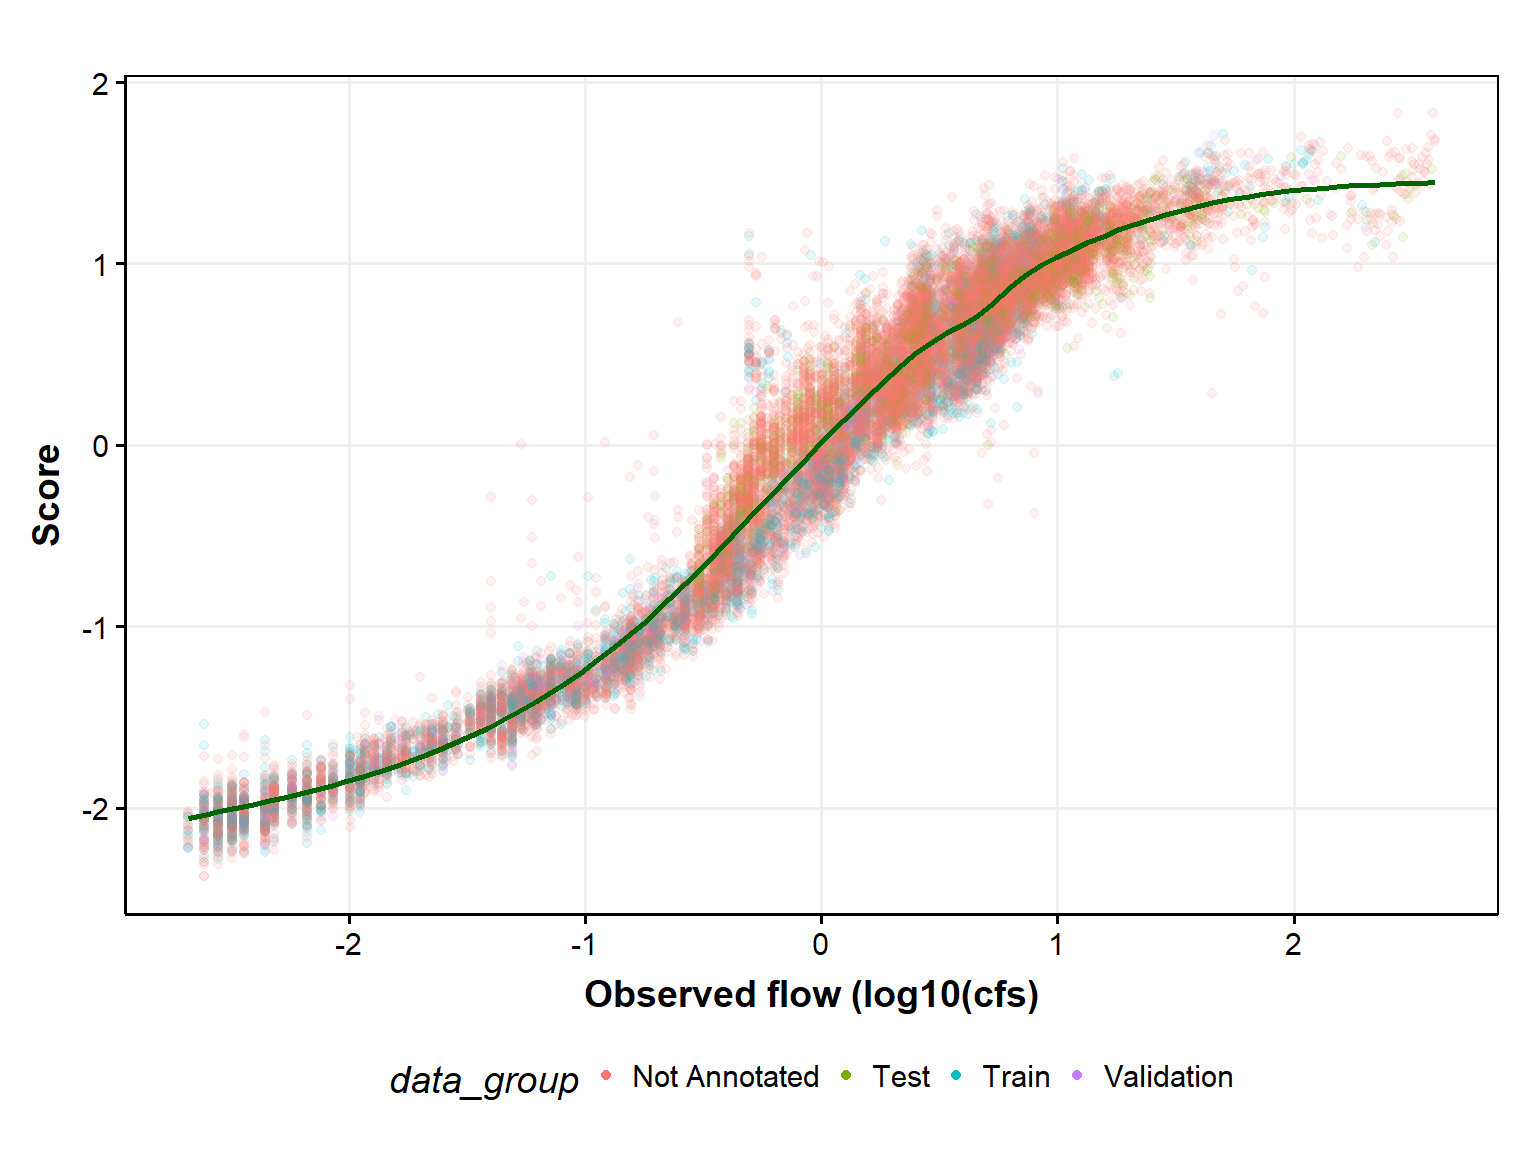
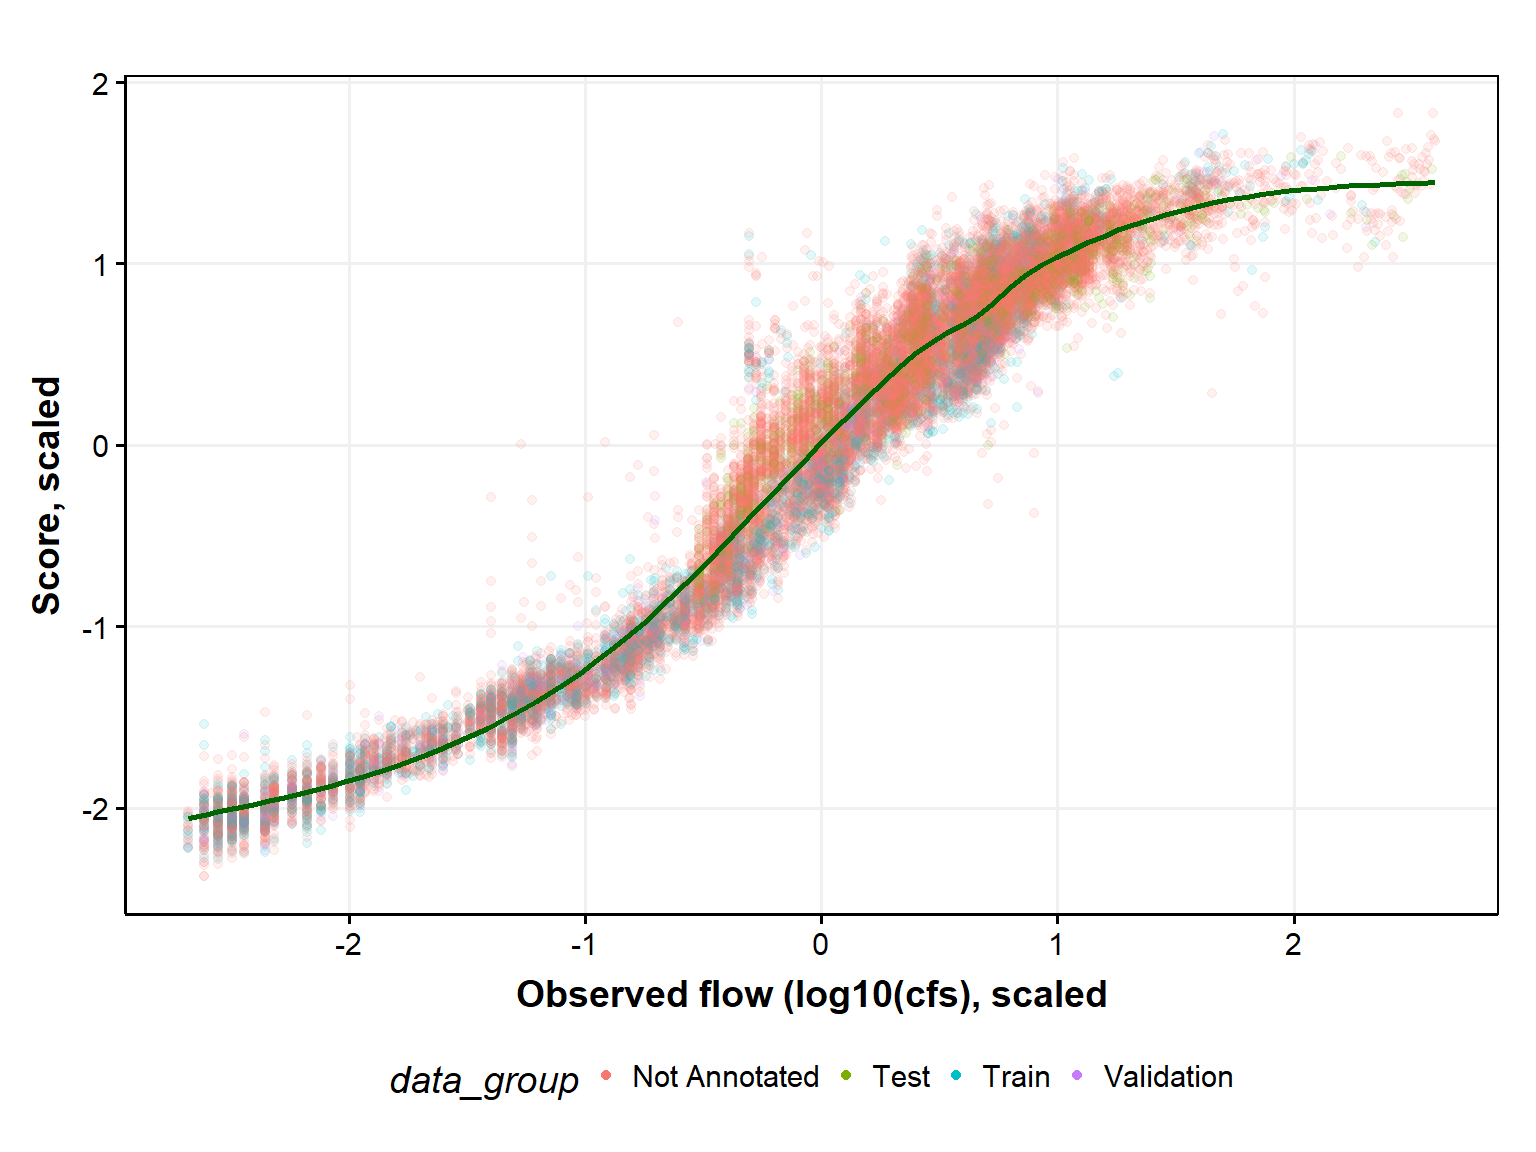
update

Changed region(s): [[0.3125, 0.8438, 0.7188, 0.875], [0.0, 0.3125, 0.0625, 0.5312]]

diff --git a/docs/realData.html b/docs/realData.html
@@ -265,7 +265,7 @@ pre > code.sourceCode > span > a:first-child::before { text-decoration: underlin
 <section id="plot-ecdfs" class="level2" data-number="2.3">
 <h2 data-number="2.3" class="anchored" data-anchor-id="plot-ecdfs"><span class="header-section-number">2.3</span> Plot ECDFs</h2>
 <p>Focus on West Brook 0</p>
-<div class="cell" data-hash="realData_cache/html/plotECDF_cc1652d133b08193dbc71b85a4f99fd3">
+<div class="cell" data-hash="realData_cache/html/plotECDF_b0d9eb7d8a9e964e3cdfa209df22b094">
 <details>
 <summary>Code</summary>
 <div class="sourceCode cell-code" id="cb5"><pre class="sourceCode r code-with-copy"><code class="sourceCode r"><span id="cb5-1"><a href="#cb5-1" aria-hidden="true" tabindex="-1"></a>dWB0 <span class="ot">&lt;-</span> d <span class="sc">|&gt;</span> </span>
@@ -292,7 +292,7 @@ pre > code.sourceCode > span > a:first-child::before { text-decoration: underlin
 <span id="cb6-3"><a href="#cb6-3" aria-hidden="true" tabindex="-1"></a>  <span class="fu">guides</span>(<span class="at">color =</span> <span class="fu">guide_legend</span>(<span class="at">override.aes =</span> <span class="fu">list</span>(<span class="at">alpha =</span> <span class="dv">1</span>))) <span class="sc">+</span></span>
 <span id="cb6-4"><a href="#cb6-4" aria-hidden="true" tabindex="-1"></a> <span class="co"># geom_smooth(method = "glm", method.args= list(family="binomial"), se = FALSE) +</span></span>
 <span id="cb6-5"><a href="#cb6-5" aria-hidden="true" tabindex="-1"></a>  <span class="fu">geom_smooth</span>(<span class="at">color =</span> <span class="st">"darkgreen"</span>, <span class="at">se =</span> <span class="cn">FALSE</span>) <span class="sc">+</span></span>
-<span id="cb6-6"><a href="#cb6-6" aria-hidden="true" tabindex="-1"></a>  <span class="fu">labs</span>(<span class="at">x =</span> <span class="st">"Observed flow (log10(cfs)"</span>, <span class="at">y =</span> <span class="st">"Score"</span>) <span class="sc">+</span></span>
+<span id="cb6-6"><a href="#cb6-6" aria-hidden="true" tabindex="-1"></a>  <span class="fu">labs</span>(<span class="at">x =</span> <span class="st">"Observed flow (log10(cfs), scaled"</span>, <span class="at">y =</span> <span class="st">"Score, scaled"</span>) <span class="sc">+</span></span>
 <span id="cb6-7"><a href="#cb6-7" aria-hidden="true" tabindex="-1"></a>  <span class="fu">theme_publication</span>()</span></code><button title="Copy to Clipboard" class="code-copy-button"><i class="bi"></i></button></pre></div>
 </details>
 <div class="cell-output-display">
@@ -305,7 +305,7 @@ pre > code.sourceCode > span > a:first-child::before { text-decoration: underlin
 <span id="cb7-3"><a href="#cb7-3" aria-hidden="true" tabindex="-1"></a>  <span class="fu">guides</span>(<span class="at">color =</span> <span class="fu">guide_legend</span>(<span class="at">override.aes =</span> <span class="fu">list</span>(<span class="at">alpha =</span> <span class="dv">1</span>))) <span class="sc">+</span></span>
 <span id="cb7-4"><a href="#cb7-4" aria-hidden="true" tabindex="-1"></a> <span class="co"># geom_smooth(method = "glm", method.args= list(family="binomial"), se = FALSE) +</span></span>
 <span id="cb7-5"><a href="#cb7-5" aria-hidden="true" tabindex="-1"></a>  <span class="fu">geom_smooth</span>(<span class="at">color =</span> <span class="st">"darkgreen"</span>, <span class="at">se =</span> <span class="cn">FALSE</span>) <span class="sc">+</span></span>
-<span id="cb7-6"><a href="#cb7-6" aria-hidden="true" tabindex="-1"></a>  <span class="fu">labs</span>(<span class="at">x =</span> <span class="st">"Observed flow (log10(cfs)"</span>, <span class="at">y =</span> <span class="st">"Score"</span>) <span class="sc">+</span></span>
+<span id="cb7-6"><a href="#cb7-6" aria-hidden="true" tabindex="-1"></a>  <span class="fu">labs</span>(<span class="at">x =</span> <span class="st">"Ranked flow"</span>, <span class="at">y =</span> <span class="st">"Ranked score"</span>) <span class="sc">+</span></span>
 <span id="cb7-7"><a href="#cb7-7" aria-hidden="true" tabindex="-1"></a>  <span class="fu">theme_publication</span>()</span></code><button title="Copy to Clipboard" class="code-copy-button"><i class="bi"></i></button></pre></div>
 </details>
 <div class="cell-output-display">
@@ -334,7 +334,7 @@ pre > code.sourceCode > span > a:first-child::before { text-decoration: underlin
 <span id="cb9-5"><a href="#cb9-5" aria-hidden="true" tabindex="-1"></a>  <span class="fu">guides</span>(<span class="at">color =</span> <span class="fu">guide_legend</span>(<span class="at">override.aes =</span> <span class="fu">list</span>(<span class="at">alpha =</span> <span class="dv">1</span>))) <span class="sc">+</span></span>
 <span id="cb9-6"><a href="#cb9-6" aria-hidden="true" tabindex="-1"></a> <span class="co"># geom_smooth(method = "glm", method.args= list(family="binomial"), se = FALSE) +</span></span>
 <span id="cb9-7"><a href="#cb9-7" aria-hidden="true" tabindex="-1"></a>  <span class="fu">geom_smooth</span>(<span class="at">color =</span> <span class="st">"darkgreen"</span>, <span class="at">se =</span> <span class="cn">FALSE</span>) <span class="sc">+</span></span>
-<span id="cb9-8"><a href="#cb9-8" aria-hidden="true" tabindex="-1"></a>  <span class="fu">labs</span>(<span class="at">x =</span> <span class="st">"Predicted percentile"</span>, <span class="at">y =</span> <span class="st">"Score"</span>) <span class="sc">+</span></span>
+<span id="cb9-8"><a href="#cb9-8" aria-hidden="true" tabindex="-1"></a>  <span class="fu">labs</span>(<span class="at">x =</span> <span class="st">"Ranked score"</span>, <span class="at">y =</span> <span class="st">"Score"</span>) <span class="sc">+</span></span>
 <span id="cb9-9"><a href="#cb9-9" aria-hidden="true" tabindex="-1"></a>  <span class="fu">theme_publication</span>() </span></code><button title="Copy to Clipboard" class="code-copy-button"><i class="bi"></i></button></pre></div>
 </details>
 <div class="cell-output-display">
@@ -888,7 +888,7 @@ window.document.addEventListener("DOMContentLoaded", function (event) {
 <span id="cb14-91"><a href="#cb14-91" aria-hidden="true" tabindex="-1"></a>  <span class="fu">guides</span>(<span class="at">color =</span> <span class="fu">guide_legend</span>(<span class="at">override.aes =</span> <span class="fu">list</span>(<span class="at">alpha =</span> <span class="dv">1</span>))) <span class="sc">+</span></span>
 <span id="cb14-92"><a href="#cb14-92" aria-hidden="true" tabindex="-1"></a> <span class="co"># geom_smooth(method = "glm", method.args= list(family="binomial"), se = FALSE) +</span></span>
 <span id="cb14-93"><a href="#cb14-93" aria-hidden="true" tabindex="-1"></a>  <span class="fu">geom_smooth</span>(<span class="at">color =</span> <span class="st">"darkgreen"</span>, <span class="at">se =</span> <span class="cn">FALSE</span>) <span class="sc">+</span></span>
-<span id="cb14-94"><a href="#cb14-94" aria-hidden="true" tabindex="-1"></a>  <span class="fu">labs</span>(<span class="at">x =</span> <span class="st">"Observed flow (log10(cfs)"</span>, <span class="at">y =</span> <span class="st">"Score"</span>) <span class="sc">+</span></span>
+<span id="cb14-94"><a href="#cb14-94" aria-hidden="true" tabindex="-1"></a>  <span class="fu">labs</span>(<span class="at">x =</span> <span class="st">"Observed flow (log10(cfs), scaled"</span>, <span class="at">y =</span> <span class="st">"Score, scaled"</span>) <span class="sc">+</span></span>
 <span id="cb14-95"><a href="#cb14-95" aria-hidden="true" tabindex="-1"></a>  <span class="fu">theme_publication</span>()</span>
 <span id="cb14-96"><a href="#cb14-96" aria-hidden="true" tabindex="-1"></a></span>
 <span id="cb14-97"><a href="#cb14-97" aria-hidden="true" tabindex="-1"></a><span class="fu">ggplot</span>(dWB0, <span class="fu">aes</span>(rank_obs, rank_pred)) <span class="sc">+</span></span>
@@ -896,7 +896,7 @@ window.document.addEventListener("DOMContentLoaded", function (event) {
 <span id="cb14-99"><a href="#cb14-99" aria-hidden="true" tabindex="-1"></a>  <span class="fu">guides</span>(<span class="at">color =</span> <span class="fu">guide_legend</span>(<span class="at">override.aes =</span> <span class="fu">list</span>(<span class="at">alpha =</span> <span class="dv">1</span>))) <span class="sc">+</span></span>
 <span id="cb14-100"><a href="#cb14-100" aria-hidden="true" tabindex="-1"></a> <span class="co"># geom_smooth(method = "glm", method.args= list(family="binomial"), se = FALSE) +</span></span>
 <span id="cb14-101"><a href="#cb14-101" aria-hidden="true" tabindex="-1"></a>  <span class="fu">geom_smooth</span>(<span class="at">color =</span> <span class="st">"darkgreen"</span>, <span class="at">se =</span> <span class="cn">FALSE</span>) <span class="sc">+</span></span>
-<span id="cb14-102"><a href="#cb14-102" aria-hidden="true" tabindex="-1"></a>  <span class="fu">labs</span>(<span class="at">x =</span> <span class="st">"Observed flow (log10(cfs)"</span>, <span class="at">y =</span> <span class="st">"Score"</span>) <span class="sc">+</span></span>
+<span id="cb14-102"><a href="#cb14-102" aria-hidden="true" tabindex="-1"></a>  <span class="fu">labs</span>(<span class="at">x =</span> <span class="st">"Ranked flow"</span>, <span class="at">y =</span> <span class="st">"Ranked score"</span>) <span class="sc">+</span></span>
 <span id="cb14-103"><a href="#cb14-103" aria-hidden="true" tabindex="-1"></a>  <span class="fu">theme_publication</span>()</span>
 <span id="cb14-104"><a href="#cb14-104" aria-hidden="true" tabindex="-1"></a></span>
 <span id="cb14-105"><a href="#cb14-105" aria-hidden="true" tabindex="-1"></a><span class="fu">ggplot</span>(dWB0, <span class="fu">aes</span>(flow_cfs_log10, score)) <span class="sc">+</span></span>
@@ -916,7 +916,7 @@ window.document.addEventListener("DOMContentLoaded", function (event) {
 <span id="cb14-119"><a href="#cb14-119" aria-hidden="true" tabindex="-1"></a>  <span class="fu">guides</span>(<span class="at">color =</span> <span class="fu">guide_legend</span>(<span class="at">override.aes =</span> <span class="fu">list</span>(<span class="at">alpha =</span> <span class="dv">1</span>))) <span class="sc">+</span></span>
 <span id="cb14-120"><a href="#cb14-120" aria-hidden="true" tabindex="-1"></a> <span class="co"># geom_smooth(method = "glm", method.args= list(family="binomial"), se = FALSE) +</span></span>
 <span id="cb14-121"><a href="#cb14-121" aria-hidden="true" tabindex="-1"></a>  <span class="fu">geom_smooth</span>(<span class="at">color =</span> <span class="st">"darkgreen"</span>, <span class="at">se =</span> <span class="cn">FALSE</span>) <span class="sc">+</span></span>
-<span id="cb14-122"><a href="#cb14-122" aria-hidden="true" tabindex="-1"></a>  <span class="fu">labs</span>(<span class="at">x =</span> <span class="st">"Predicted percentile"</span>, <span class="at">y =</span> <span class="st">"Score"</span>) <span class="sc">+</span></span>
+<span id="cb14-122"><a href="#cb14-122" aria-hidden="true" tabindex="-1"></a>  <span class="fu">labs</span>(<span class="at">x =</span> <span class="st">"Ranked score"</span>, <span class="at">y =</span> <span class="st">"Score"</span>) <span class="sc">+</span></span>
 <span id="cb14-123"><a href="#cb14-123" aria-hidden="true" tabindex="-1"></a>  <span class="fu">theme_publication</span>() </span>
 <span id="cb14-124"><a href="#cb14-124" aria-hidden="true" tabindex="-1"></a><span class="co">#  facet_wrap(~data_group)</span></span>
 <span id="cb14-125"><a href="#cb14-125" aria-hidden="true" tabindex="-1"></a><span class="in">```</span></span>
